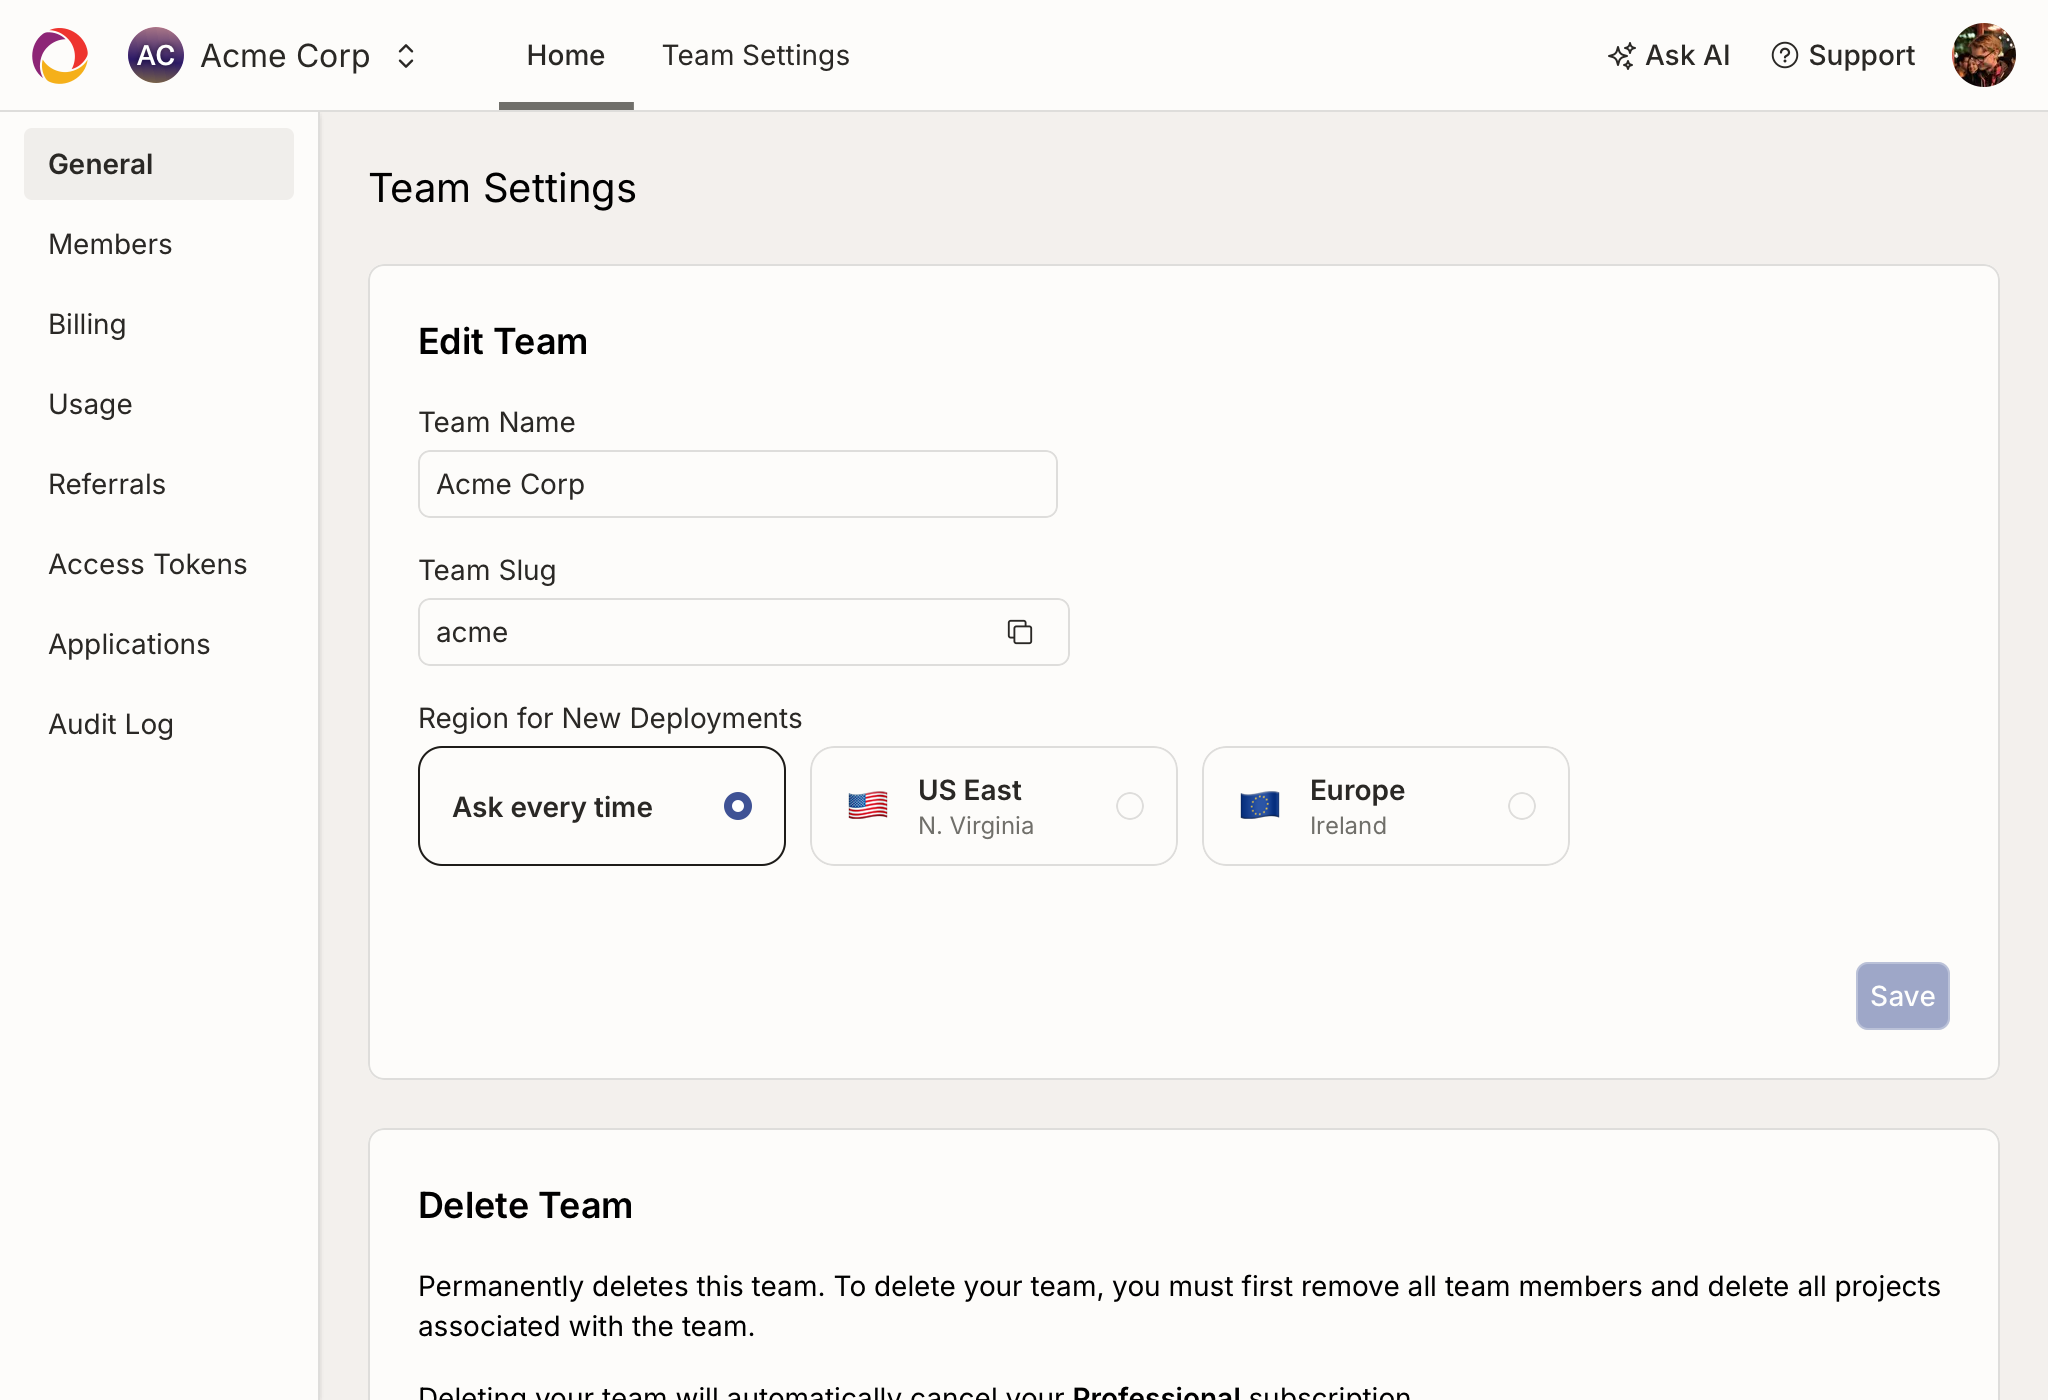
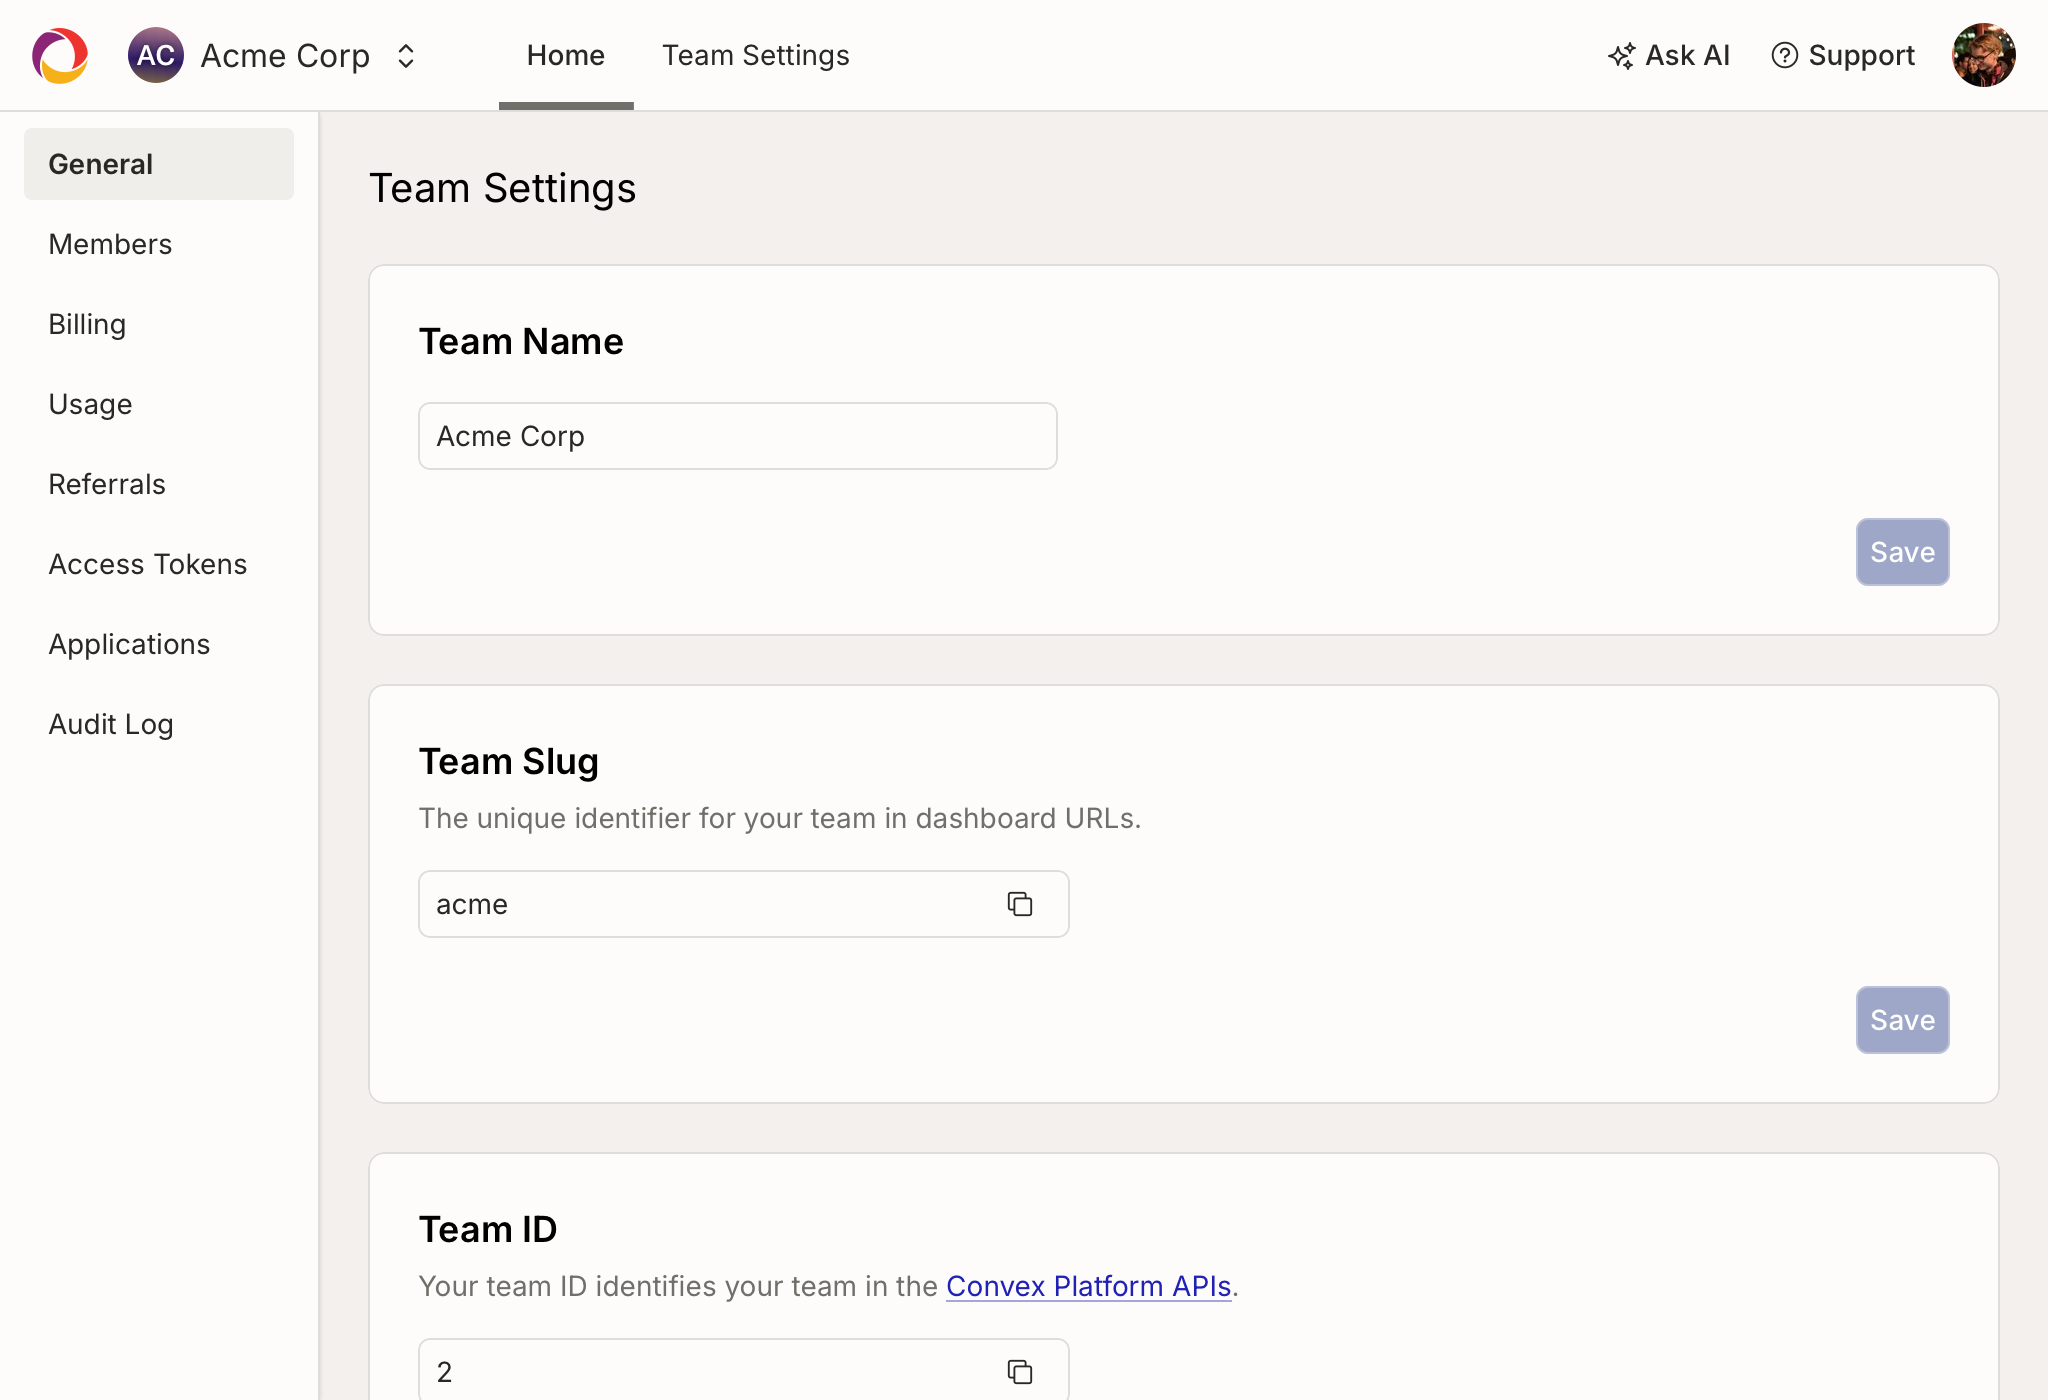
Split general team settings into per-setting sheets (#53964)
Redesign the general team settings page so each setting is its own sheet with its own Save button: Team Name, Team Slug, and Default Region. Add a new Team ID sheet between the slug and region sheets that surfaces the team ID (with a copy button) and links to the Convex Platform API docs.

GitOrigin-RevId: 169d8c1cf619b93bedc5e9d03e135ecd5d755da6

diff --git a/npm-packages/dashboard/src/components/teamSettings/TeamNameForm.tsx b/npm-packages/dashboard/src/components/teamSettings/TeamNameForm.tsx
@@ -1,0 +1,87 @@
+import { Button } from "@ui/Button";
+import { Tooltip } from "@ui/Tooltip";
+import { Sheet } from "@ui/Sheet";
+import { TextInput } from "@ui/TextInput";
+import { useFormik } from "formik";
+import { TeamResponse } from "generatedApi";
+import * as Yup from "yup";
+import { permissionDeniedTip } from "elements/permissionDeniedTip";
+
+export type TeamNameFormProps = {
+  team: TeamResponse;
+  onUpdateTeam: (body: { name: string }) => Promise<void>;
+  canUpdate: boolean;
+};
+
+const TeamNameSchema = Yup.object().shape({
+  name: Yup.string()
+    .min(3, "Team name must be at least 3 characters long.")
+    .max(128, "Team name must be at most 128 characters long.")
+    .required("Team name is required."),
+});
+
+export function TeamNameForm({
+  team,
+  onUpdateTeam,
+  canUpdate,
+}: TeamNameFormProps) {
+  const formState = useFormik({
+    initialValues: {
+      name: team.name,
+    },
+    enableReinitialize: true,
+    validationSchema: TeamNameSchema,
+    onSubmit: async (values) => {
+      await onUpdateTeam({ name: values.name });
+    },
+  });
+
+  const disabled = !canUpdate || team.managedBy === "vercel";
+
+  return (
+    <Sheet className="text-sm">
+      <h3 className="mb-4">Team Name</h3>
+      <form onSubmit={formState.handleSubmit} aria-label="Edit team name">
+        <div className="mb-6">
+          <Tooltip
+            className="block max-w-[20rem]"
+            tip={
+              !canUpdate
+                ? permissionDeniedTip(
+                    "You do not have permission to update the team name.",
+                    "team:update",
+                  )
+                : undefined
+            }
+          >
+            <TextInput
+              label="Team Name"
+              labelHidden
+              outerClassname="max-w-[20rem]"
+              placeholder="Enter a name for your team"
+              onChange={formState.handleChange}
+              value={formState.values.name}
+              id="name"
+              error={formState.errors.name}
+              disabled={disabled}
+            />
+          </Tooltip>
+        </div>
+
+        <Button
+          className="float-right"
+          disabled={
+            !formState.dirty ||
+            formState.isSubmitting ||
+            !formState.isValid ||
+            disabled
+          }
+          type="submit"
+          aria-label="Save team name"
+        >
+          Save
+        </Button>
+      </form>
+    </Sheet>
+  );
+}

diff --git a/npm-packages/dashboard/src/components/teamSettings/DefaultRegionForm.tsx b/npm-packages/dashboard/src/components/teamSettings/DefaultRegionForm.tsx
@@ -1,0 +1,65 @@
+import { Button } from "@ui/Button";
+import { Sheet } from "@ui/Sheet";
+import { useFormik } from "formik";
+import { RegionName, TeamResponse } from "generatedApi";
+import { useDeploymentRegions } from "api/deployments";
+import { DefaultRegionSelector } from "./DefaultRegionSelector";
+
+export type DefaultRegionFormProps = {
+  team: TeamResponse;
+  onUpdateTeam: (body: { defaultRegion: RegionName | null }) => Promise<void>;
+  canUpdate: boolean;
+};
+
+export function DefaultRegionForm({
+  team,
+  onUpdateTeam,
+  canUpdate,
+}: DefaultRegionFormProps) {
+  const { regions } = useDeploymentRegions(team.id);
+  const formState = useFormik<{ defaultRegion: RegionName | null }>({
+    initialValues: {
+      defaultRegion: team.defaultRegion ?? null,
+    },
+    enableReinitialize: true,
+    onSubmit: async (values) => {
+      await onUpdateTeam({ defaultRegion: values.defaultRegion });
+    },
+  });
+
+  return (
+    <Sheet className="text-sm">
+      <h3 className="mb-1">Default Region</h3>
+      <p className="mb-4 max-w-prose text-content-secondary">
+        The region where new deployments in this team are created.
+      </p>
+      <form onSubmit={formState.handleSubmit} aria-label="Edit default region">
+        <div className="mb-6">
+          <DefaultRegionSelector
+            value={formState.values.defaultRegion}
+            onChange={(region) =>
+              formState.setFieldValue("defaultRegion", region)
+            }
+            regions={regions}
+            teamSlug={team.slug}
+            disabledDueToPermissions={!canUpdate}
+          />
+        </div>
+
+        <Button
+          className="float-right"
+          disabled={
+            !formState.dirty ||
+            formState.isSubmitting ||
+            !formState.isValid ||
+            !canUpdate
+          }
+          type="submit"
+          aria-label="Save default region"
+        >
+          Save
+        </Button>
+      </form>
+    </Sheet>
+  );
+}

diff --git a/npm-packages/dashboard/src/components/teamSettings/TeamIdSheet.tsx b/npm-packages/dashboard/src/components/teamSettings/TeamIdSheet.tsx
@@ -1,0 +1,39 @@
+import { CopyIcon } from "@radix-ui/react-icons";
+import { Sheet } from "@ui/Sheet";
+import { TextInput } from "@ui/TextInput";
+import { Link } from "@ui/Link";
+import { TeamResponse } from "generatedApi";
+import { useCopy } from "@common/lib/useCopy";
+
+export type TeamIdSheetProps = {
+  team: TeamResponse;
+};
+
+export function TeamIdSheet({ team }: TeamIdSheetProps) {
+  const copyToClipboard = useCopy("Team ID");
+  const teamId = team.id.toString();
+
+  return (
+    <Sheet className="text-sm">
+      <h3 className="mb-1">Team ID</h3>
+      <p className="mb-4 max-w-prose text-content-secondary">
+        Your team ID identifies your team in the{" "}
+        <Link href="https://docs.convex.dev/platform-apis" target="_blank">
+          Convex Platform APIs
+        </Link>
+        .
+      </p>
+      <TextInput
+        id="teamId"
+        label="Team ID"
+        labelHidden
+        outerClassname="max-w-[20rem]"
+        value={teamId}
+        readOnly
+        Icon={CopyIcon}
+        iconTooltip="Copy team ID"
+        action={() => copyToClipboard(teamId)}
+      />
+    </Sheet>
+  );
+}

diff --git a/npm-packages/dashboard/src/components/teamSettings/TeamSettings.tsx b/npm-packages/dashboard/src/components/teamSettings/TeamSettings.tsx
@@ -19,7 +19,10 @@ import { permissionDeniedTip } from "elements/permissionDeniedTip";
 import { useCallback, useState } from "react";
 import startCase from "lodash/startCase";
 import { OpenInVercel } from "components/OpenInVercel";
-import { TeamForm } from "./TeamForm";
+import { TeamNameForm } from "./TeamNameForm";
+import { TeamSlugForm } from "./TeamSlugForm";
+import { TeamIdSheet } from "./TeamIdSheet";
+import { DefaultRegionForm } from "./DefaultRegionForm";
 
 export function TeamSettings({ team }: { team: TeamResponse }) {
   const updateTeam = useUpdateTeam(team.id);
@@ -59,7 +62,22 @@ export function TeamSettings({ team }: { team: TeamResponse }) {
   return (
     <>
       <h2>Team Settings</h2>
-      <TeamForm team={team} onUpdateTeam={updateTeam} canUpdate={canUpdate} />
+      <TeamNameForm
+        team={team}
+        onUpdateTeam={updateTeam}
+        canUpdate={canUpdate}
+      />
+      <TeamSlugForm
+        team={team}
+        onUpdateTeam={updateTeam}
+        canUpdate={canUpdate}
+      />
+      <TeamIdSheet team={team} />
+      <DefaultRegionForm
+        team={team}
+        onUpdateTeam={updateTeam}
+        canUpdate={canUpdate}
+      />
       <Sheet>
         <h3 className="mb-4">Delete Team</h3>
         <p className="mb-4">

diff --git a/npm-packages/dashboard/src/components/teamSettings/DefaultRegionSelector.tsx b/npm-packages/dashboard/src/components/teamSettings/DefaultRegionSelector.tsx
@@ -1,5 +1,5 @@
 import { useMemo } from "react";
-import { Fieldset, Legend, RadioGroup } from "@headlessui/react";
+import { Fieldset, RadioGroup } from "@headlessui/react";
 import { Region, sortRegions } from "elements/Region";
 import {
   DeploymentRegionMetadata,
@@ -27,10 +27,12 @@ export function DefaultRegionSelector({
 
   return (
     <Fieldset>
-      <Legend className="mb-1 text-sm text-content-primary">
-        Region for New Deployments
-      </Legend>
-      <RadioGroup name="defaultRegion" value={value} onChange={onChange}>
+      <RadioGroup
+        name="defaultRegion"
+        aria-label="Default region"
+        value={value}
+        onChange={onChange}
+      >
         <div className="grid max-w-xl auto-rows-fr gap-3 sm:grid-cols-2 lg:grid-cols-3">
           {sortedRegions ? (
             <>

diff --git a/npm-packages/dashboard/src/layouts/TeamSettingsLayout.tsx b/npm-packages/dashboard/src/layouts/TeamSettingsLayout.tsx
@@ -110,7 +110,7 @@ export function TeamSettingsLayout({
             )}
           </aside>
           <div className="scrollbar w-full overflow-y-auto">
-            <div className="flex h-full max-w-7xl flex-col gap-6 p-6">
+            <div className="flex min-h-full max-w-7xl flex-col gap-6 p-6">
               {selectedTeam ? (
                 <Component team={selectedTeam} key={selectedTeam.id} />
               ) : (